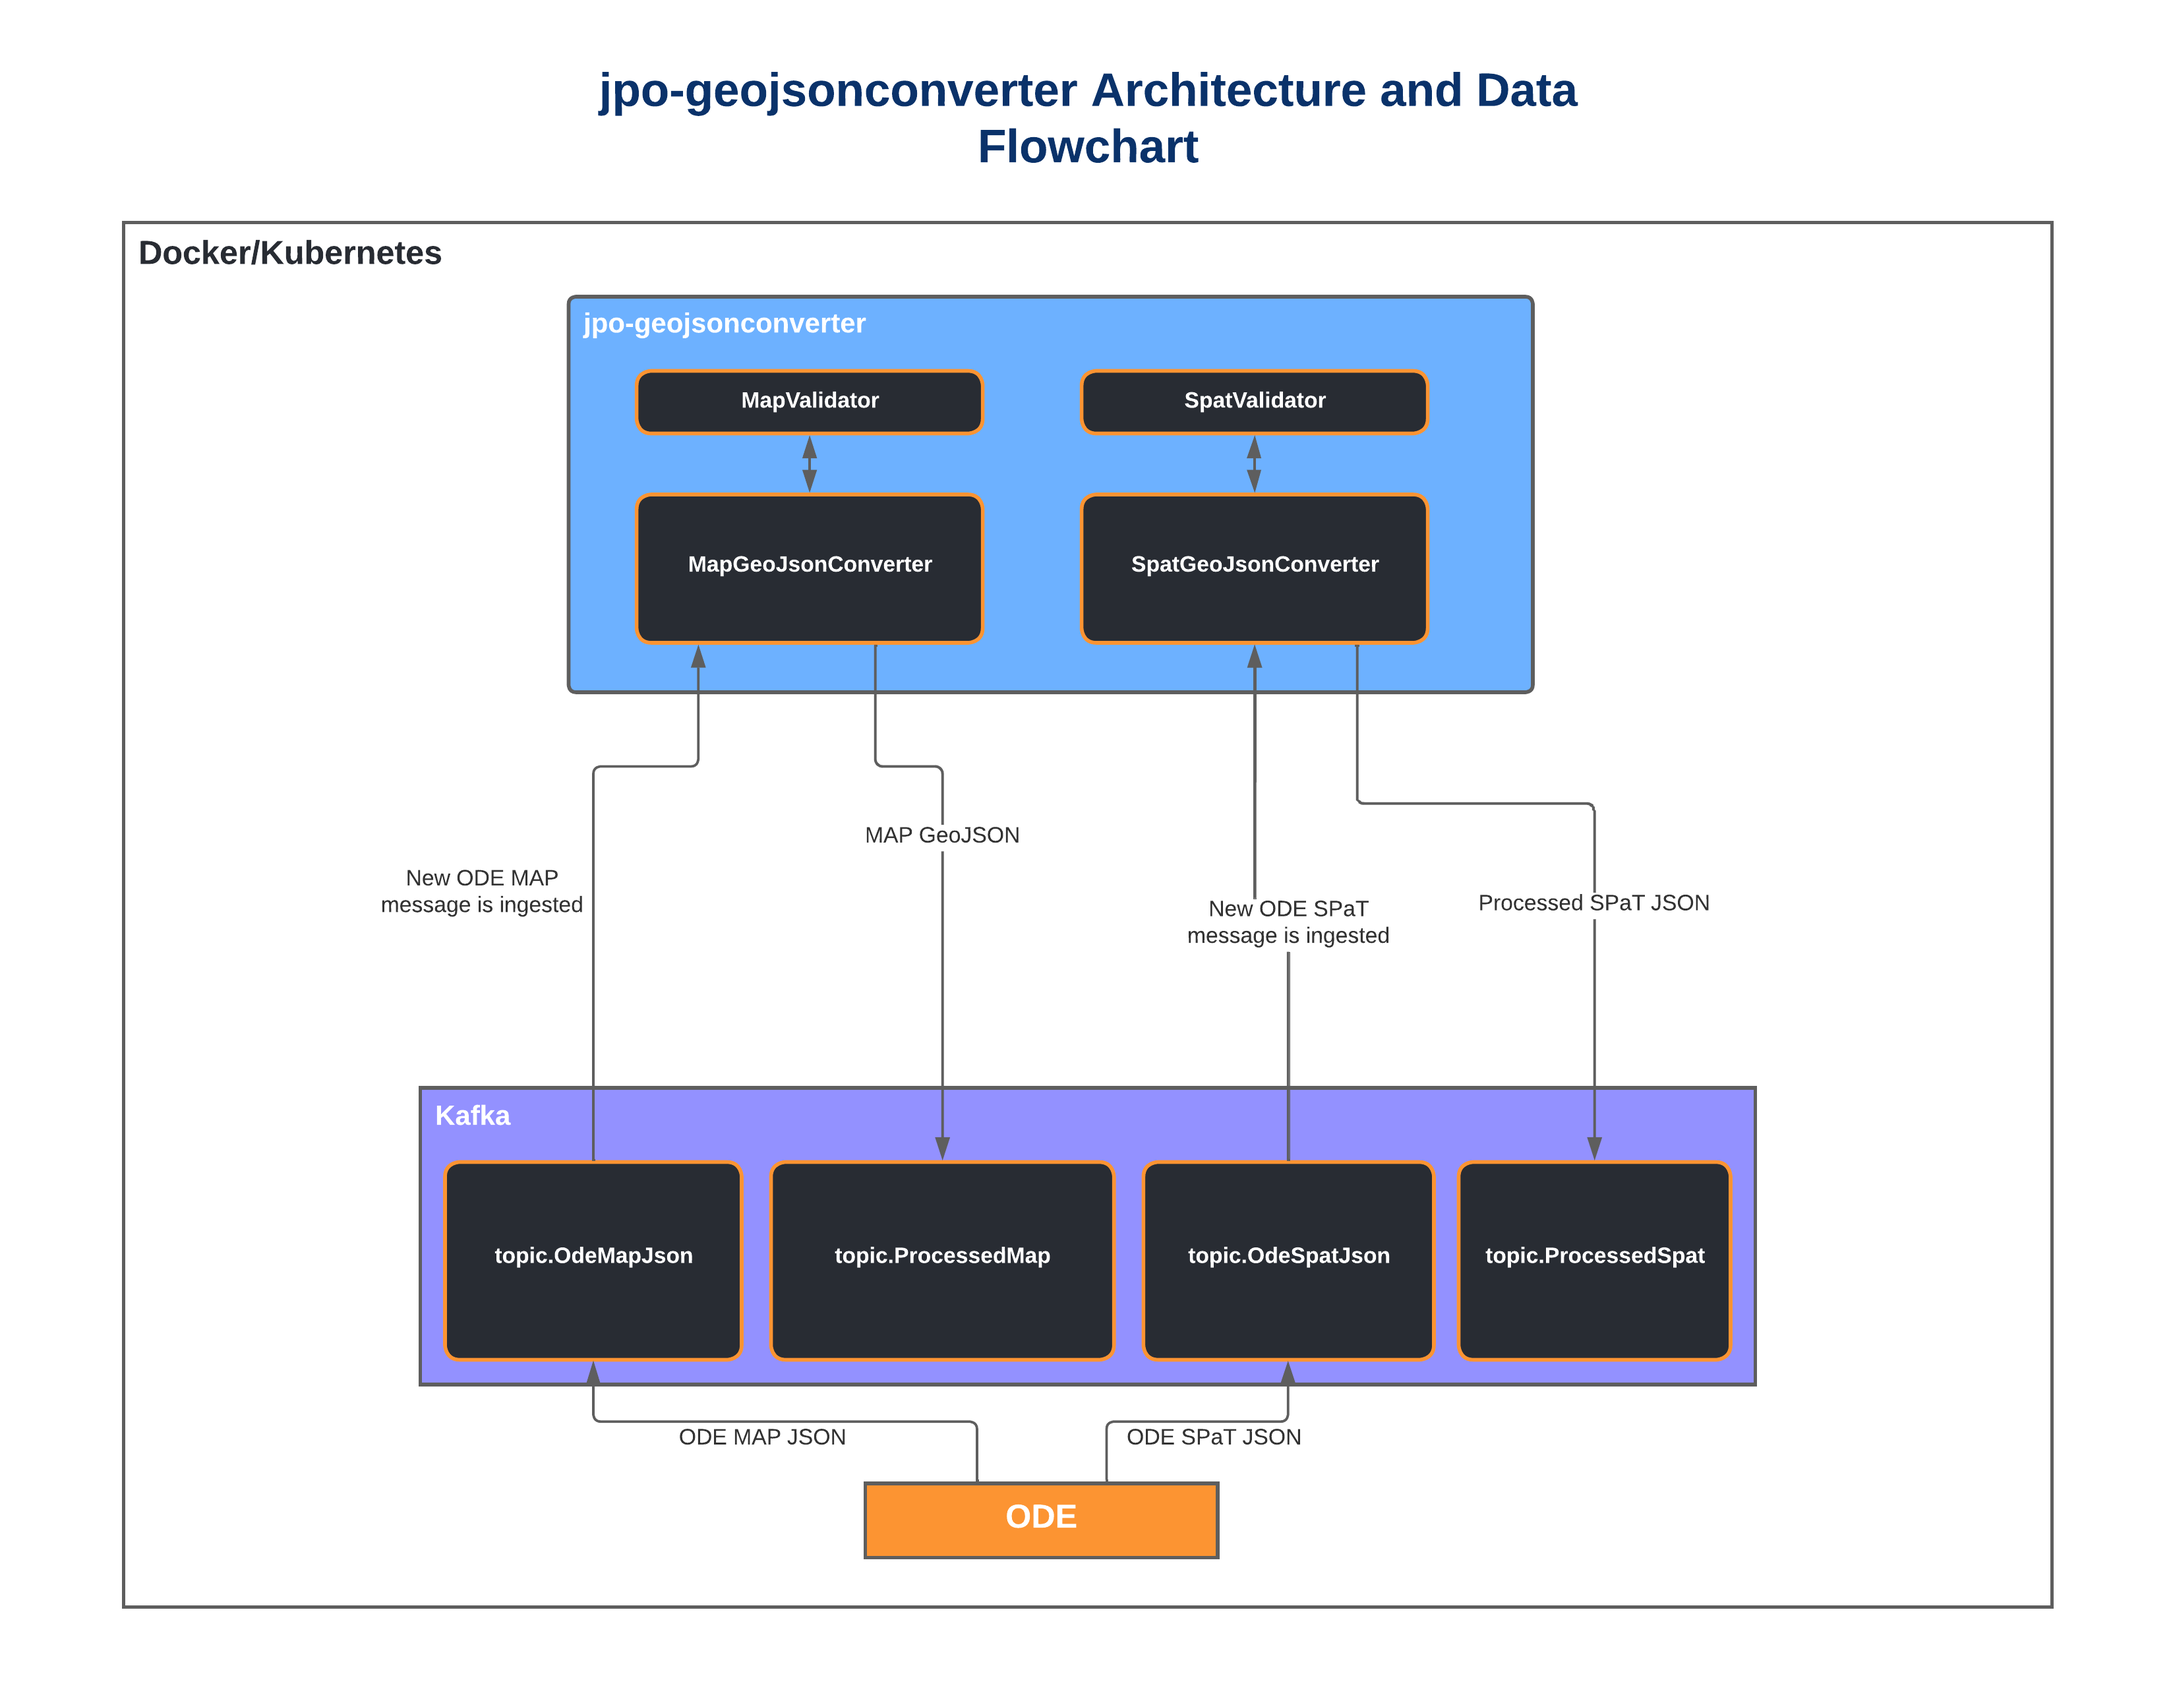
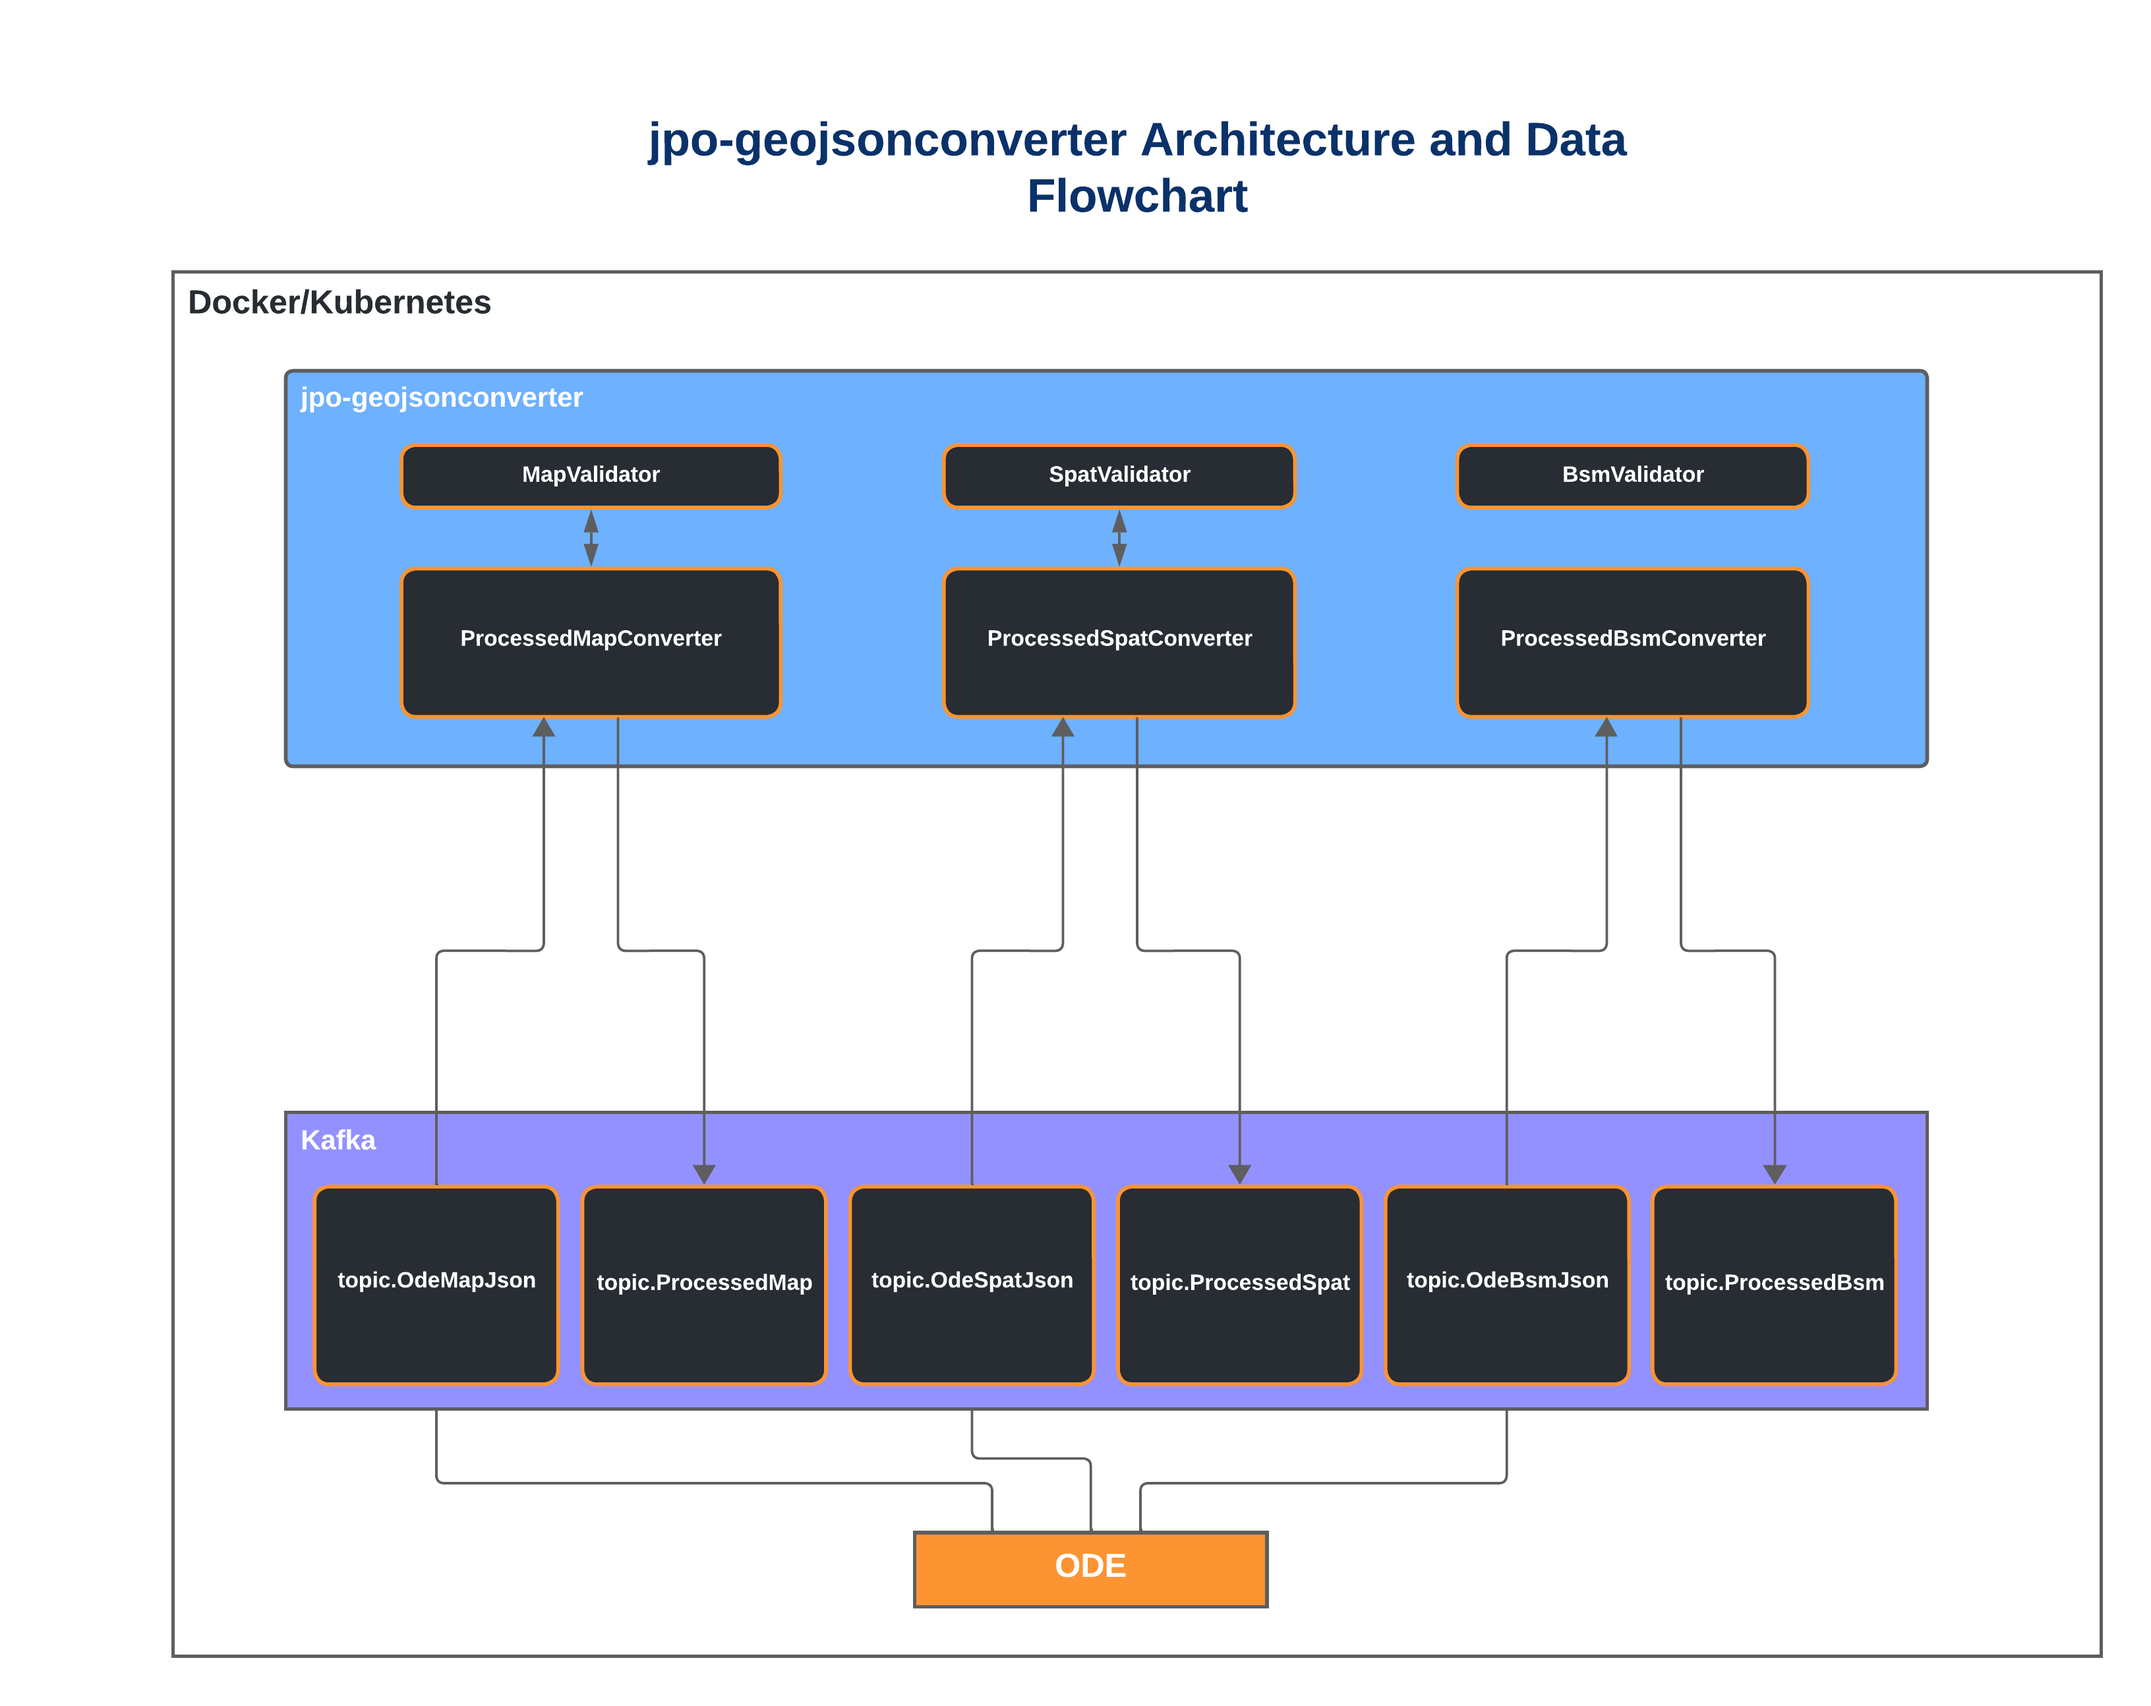
Update documentation to include the ProcessedBsm

diff --git a/README.md b/README.md
@@ -36,13 +36,13 @@ The current version and release history of the JPO GeoJSON Converter: [Release N
 
 ## 1. Usage Example
 
-The jpo-geojsonconverter is used to convert the ODE JSON output of MAP and SPaT messages into GeoJSON ProcessedMap messages and enhanced ProcessedSpat messages. In order to verify your jpo-geojsonconverter is functioning, you must run the jpo-ode, then the jpo-geojsonconverter, and then send the jpo-ode raw ASN1 encoded MAP and SPaT data.
+The jpo-geojsonconverter is used to convert the ODE JSON output of MAP, SPaT and BSM messages into GeoJSON ProcessedMap, enhanced ProcessedSpat, and GeoJSON ProcessedBsm messages. In order to verify your jpo-geojsonconverter is functioning, you must run the jpo-ode, then the jpo-geojsonconverter, and then send the jpo-ode raw ASN1 encoded MAP, SPaT and BSM data.
 
 Follow the configuration section to properly configure and launch your jpo-ode and jpo-geojsonconverter.
 
-Run one of the UDP sender Python scripts from the [jpo-ode repository](https://github.com/usdot-jpo-ode/jpo-ode/tree/dev/scripts/tests) to generate some example MAP and SPaT messages. Make sure to set your DOCKER_HOST_IP environment variable so the script will properly send the ASN1 encoded messages to your locally running JPO-ODE.
+Run one of the UDP sender Python scripts from the [jpo-ode repository](https://github.com/usdot-jpo-ode/jpo-ode/tree/dev/scripts/tests) to generate some example MAP/SPaT/BSM messages. Make sure to set your DOCKER_HOST_IP environment variable so the script will properly send the ASN1 encoded messages to your locally running JPO-ODE.
 
-Once the message has been sent to the jpo-ode, it will be eventually be decoded and serialized into a JSON string. This string will be placed into the Kafka topics topic.OdeMapJson and topic.OdeSpatJson. The jpo-geojsonconverter will then transform them into geoJSON. If a user needs WKT formatted GeoJSON, it is possible to turn this on by specifying the geometry.output.mode environment variable to "WKT".
+Once the message has been sent to the jpo-ode, it will be eventually be decoded and serialized into a JSON string. This string will be placed into the Kafka topics topic.OdeMapJson, topic.OdeSpatJson, and topic.OdeBsmJson. The jpo-geojsonconverter will then transform them into geoJSON. If a user needs WKT formatted GeoJSON, it is possible to turn this on by specifying the geometry.output.mode environment variable to "WKT". Currently WKT does not support the BSM messages.
 
 ### <b>Output Message Types</b>
 
@@ -120,6 +120,78 @@ Example ProcessedSpat message:
       ]
     }
   ]
+}
+```
+
+### ProcessedBsm
+When an OdeBsmJson message is processed through the jpo-geojsonconverter, a ProcessedBsm message is created. This message is a GeoJSON feature collection that contains extra metadata fields that represents a single BSM.
+
+- *type* - The type of object the JSON is. This will always be a 'FeatureCollection'.
+- *features* - Feature Collection for storing all of the unique BSM payload and geographic data for each lane in an intersection. Mapping this object would display a single point representing the BSM.
+- *schemaVersion* - The schema version that the JSON object was generated for.
+- *messageType* - The message type the FeatureCollection represents.
+- *odeReceivedAt* - A date-time string representing when the BSM was received by the ODE.
+- *timestamp* - A date-time string representing when the BSM processed and transformed into a ProcessedBsm.
+- *originIp* - An IP string representing the RSU the BSM was generated by if there is a IP present.
+- *validationMessages* - A list of validation messages that specify issues found within the original OdeBsmJson object based on the JSON schema.
+
+```
+{
+    "type": "FeatureCollection",
+    "features": [
+        {
+            "type": "Feature",
+            "geometry": {
+                "type": "Point",
+                "coordinates": [
+                    -105.0342901,
+                    40.5671913
+                ]
+            },
+            "properties": {
+                "accelSet": {
+                    "accelLat": 2001,
+                    "accelLong": 0,
+                    "accelVert": -127,
+                    "accelYaw": 0
+                },
+                "accuracy": {
+                    "semiMajor": 5,
+                    "semiMinor": 2,
+                    "orientation": 0
+                },
+                "brakes": {
+                    "wheelBrakes": {
+                        "leftFront": false,
+                        "rightFront": false,
+                        "unavailable": true,
+                        "leftRear": false,
+                        "rightRear": false
+                    },
+                    "traction": "unavailable",
+                    "abs": "unavailable",
+                    "scs": "unavailable",
+                    "brakeBoost": "unavailable",
+                    "auxBrakes": "unavailable"
+                },
+                "heading": 359.4,
+                "id": "12A7A951",
+                "msgCnt": 25,
+                "secMark": 2800,
+                "size": {
+                    "width": 208,
+                    "length": 586
+                },
+                "transmission": "UNAVAILABLE"
+            }
+        }
+    ],
+    "schemaVersion": 1,
+    "messageType": "BSM",
+    "odeReceivedAt": "2024-08-12T12:32:03.811Z",
+    "originIp": "172.19.0.1",
+    "validationMessages": [],
+    "timeStamp": "2024-08-12T12:32:04.3034091Z"
 }
 ```
 
